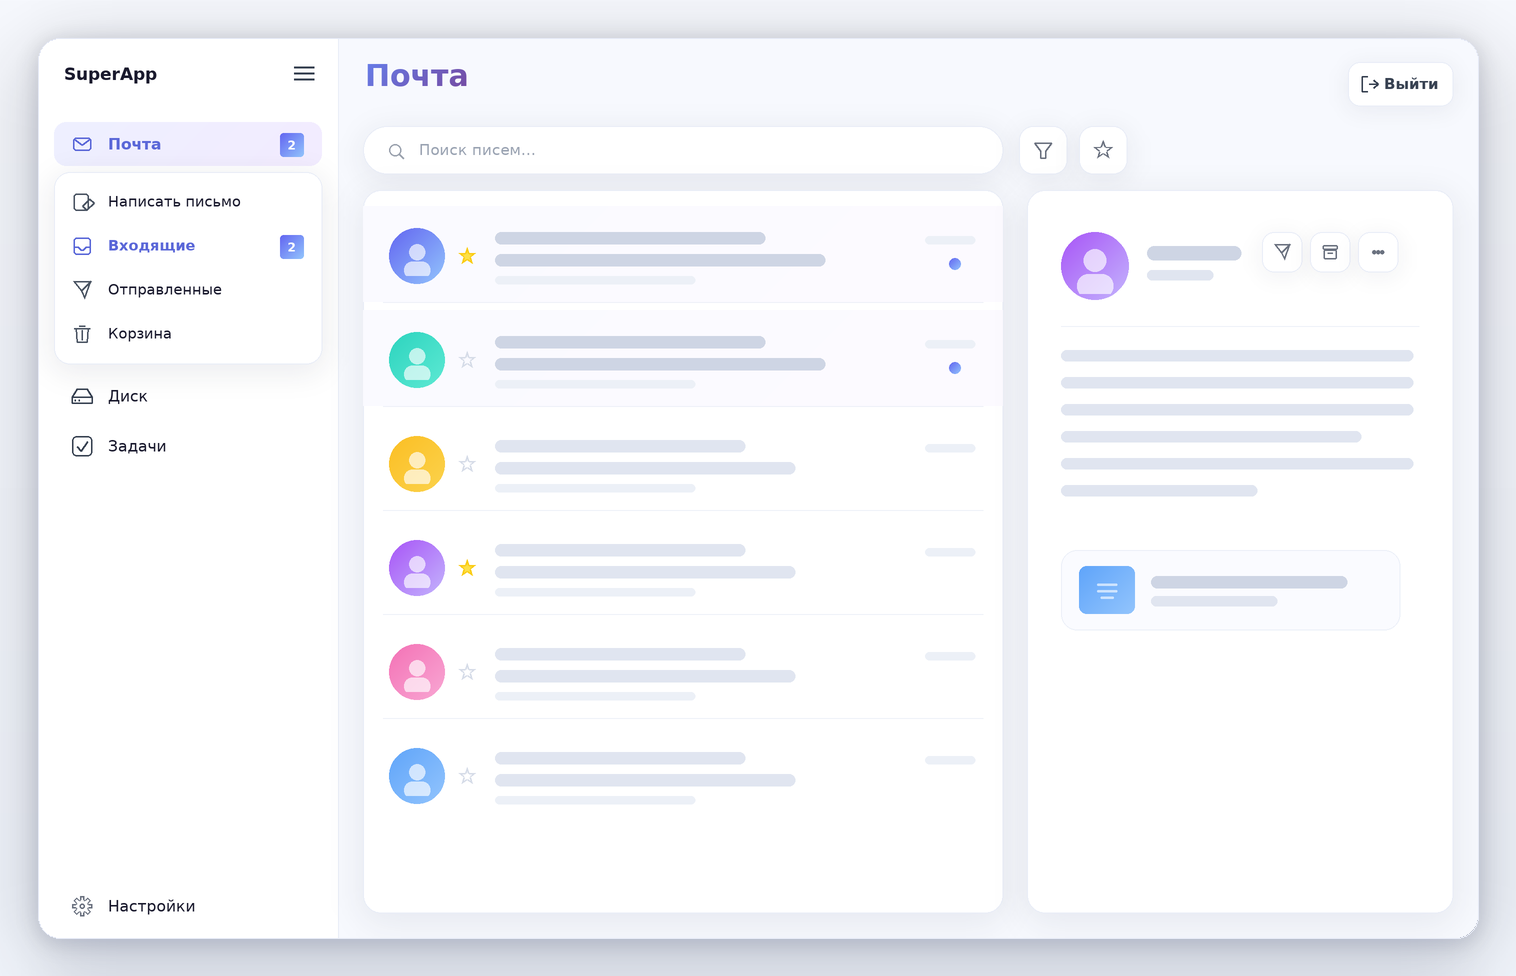
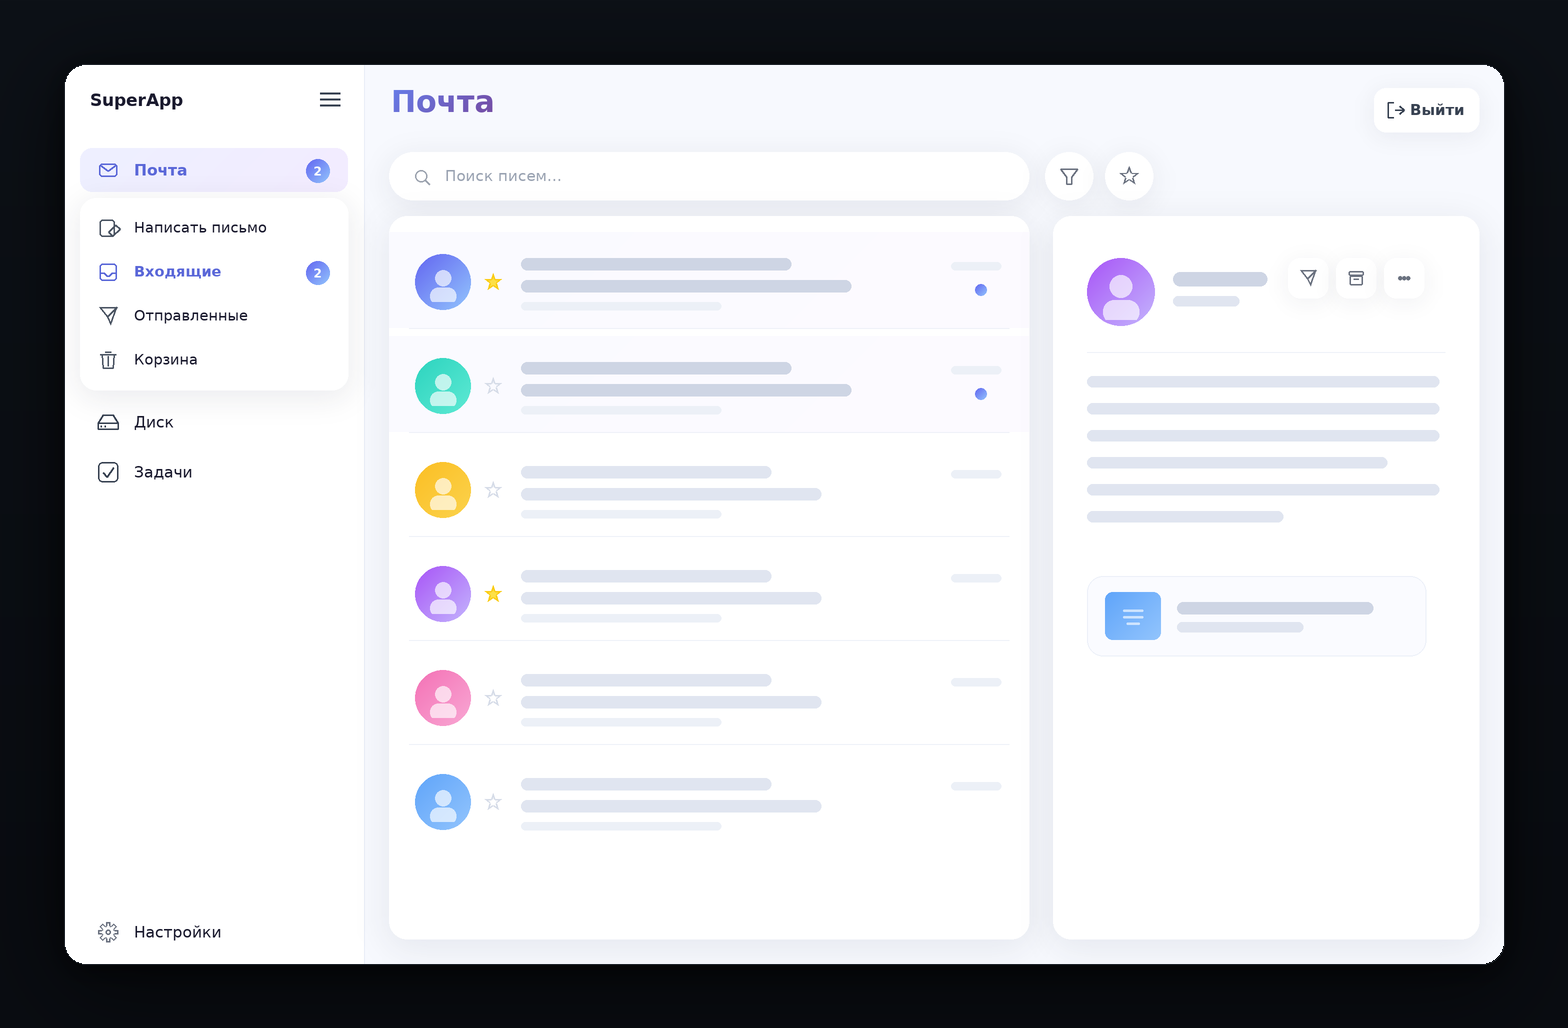
Screens: back to the old pastel look on a dark GitHub background
- Экран входа снова прежняя иллюстрация (raw-login.jpg), как была в README.
- Кадры лежат на фоне #0d1117 (тёмная тема GitHub) с широким полем вместо белого.
- Счётчики писем в сайдбаре стали круглыми; кнопки фильтра, избранного и
  переключателя вида — круглые, как в прежнем стиле.
- Диск: плитки квадратные — первый ряд папки, второй файлы; выбранная папка
  в мягкой синей обводке.
- Больше старого стиля: панели, колонки и карточки без обводок — только мягкая
  тень и крупные скругления; кнопки тулбара в задачах снова «иконка + подпись»
  без кнопочных плашек.

diff --git a/docs/images/make-screens.py b/docs/images/make-screens.py
@@ -112,8 +112,12 @@ def soft_shadow(img, box, r, blur=18, dy=10, color=(60, 70, 120, 60)):
     img.alpha_composite(layer.filter(ImageFilter.GaussianBlur(px(blur))))
 
 
-def card(img, box, r=18, fill=CARD, outline=BORDER, width=1, shadow=None):
-    """Карточка с мягкой тенью (shadow = (blur, dy, alpha))."""
+def card(img, box, r=18, fill=CARD, outline=None, width=1, shadow=None):
+    """Карточка с мягкой тенью (shadow = (blur, dy, alpha)).
+
+    По умолчанию рамки нет: в прежнем стиле панели «плавали» на фоне за счёт
+    одной тени, без обводки.
+    """
     if shadow:
         soft_shadow(img, box, r, blur=shadow[0], dy=shadow[1],
                     color=(70, 82, 140, shadow[2]))
@@ -319,8 +323,7 @@ def stat_chip(img, x, cy, label, icon=None):
     """Чип-плашка со статистикой («Колонок: 3», «Карточек: 7»)."""
     d = ImageDraw.Draw(img, 'RGBA')
     w = text_w(label, 13.5, True) + (38 if icon else 26)
-    card(img, [x, cy - 13, x + w, cy + 13], r=13, fill=(238, 241, 248),
-         outline=(238, 241, 248), shadow=False)
+    card(img, [x, cy - 13, x + w, cy + 13], r=13, fill=(238, 241, 248), shadow=False)
     if icon:
         icon(d, x + 17, cy, 15, (100, 116, 139))
         text(d, (x + 30, cy), label, 13.5, (100, 116, 139), bold=True, anchor='lm')
@@ -655,7 +658,7 @@ def draw_sidebar(img, active):
         icon(d, 44, y + 22, 20, PRIMARY_DARK if on else (55, 65, 81))
         text(d, (70, y + 13), label, 15.5, PRIMARY_DARK if on else TEXT, bold=on)
         if badge:
-            pastel_shape(img, [SIDEBAR - 58, y + 11, SIDEBAR - 34, y + 35], 'squircle',
+            pastel_shape(img, [SIDEBAR - 58, y + 11, SIDEBAR - 34, y + 35], 'disc',
                          PASTELS['indigo'], fold=False)
             text(d, (SIDEBAR - 46, y + 23), str(badge), 12, (255, 255, 255), bold=True, anchor='mm')
         y += 50
@@ -678,7 +681,7 @@ def draw_sidebar(img, active):
         icon(d, 44, yy + 20, 19, PRIMARY_DARK if on else (75, 85, 99))
         text(d, (70, yy + 11), label, 14.5, PRIMARY_DARK if on else TEXT, bold=on)
         if badge:
-            pastel_shape(img, [SIDEBAR - 58, yy + 9, SIDEBAR - 34, yy + 33], 'squircle',
+            pastel_shape(img, [SIDEBAR - 58, yy + 9, SIDEBAR - 34, yy + 33], 'disc',
                          PASTELS['indigo'], fold=False)
             text(d, (SIDEBAR - 46, yy + 21), str(badge), 12, (255, 255, 255), bold=True, anchor='mm')
         yy += 44
@@ -769,7 +772,7 @@ def draw_mail():
     ic_search(d, x0 + 32, 112, 19, (156, 163, 175))
     text(d, (x0 + 56, 112), 'Поиск писем...', 15, TEXT_SOFT, anchor='lm')
     for bx, ic in ((x0 + list_w + 16, ic_funnel), (x0 + list_w + 76, ic_star)):
-        card(img, [bx, 88, bx + 48, 136], r=14, shadow=(12, 5, 20))
+        card(img, [bx, 88, bx + 48, 136], r=24, shadow=(12, 5, 20))
         ic(d, bx + 24, 112, 20, (107, 114, 128))
 
     # список писем
@@ -854,29 +857,30 @@ def draw_drive():
     text(d, (x0 + 178, 186), '/', 16, (156, 163, 175), anchor='lm')
     sk_bar(img, [x0 + 196, 181, x0 + 300, 191], fill=SK)
 
-    # одна сетка на все плитки: 6 колонок, папки — двумя рядами, файлы — третьим
+    # квадратные плитки в одной сетке: 6 колонок, первый ряд — папки, второй — файлы
     gap, cols = 16, 6
     tw = ((W - 25) - x0 - gap * (cols - 1)) // cols
-    folders = ['indigo', 'teal', 'amber', 'rose', 'blue', 'violet',
-               'coral', 'indigo', 'teal', 'amber', 'rose', 'blue']
+    row1, row2 = 232, 232 + tw + gap
+    folders = ['indigo', 'teal', 'amber', 'rose', 'blue', 'violet']
     for i, key in enumerate(folders):
-        col, row = i % cols, i // cols
-        x, y = x0 + col * (tw + gap), 232 + row * 166
+        x = x0 + i * (tw + gap)
         selected = (i == 0)
-        card(img, [x, y, x + tw, y + 150], r=16, shadow=(14, 6, 22),
-             outline=(196, 205, 245) if selected else BORDER, width=1.6 if selected else 1)
-        pastel_shape(img, [x + 30, y + 36, x + tw - 30, y + 114], 'folder', PASTELS[key])
+        card(img, [x, row1, x + tw, row1 + tw], r=20, shadow=(16, 7, 24),
+             outline=(199, 208, 246) if selected else None, width=1.6 if selected else 1)
+        pastel_shape(img, [x + 34, row1 + 64, x + tw - 34, row1 + tw - 58], 'folder', PASTELS[key])
         if selected:
-            pastel_shape(img, [x + 12, y + 12, x + 36, y + 36], 'disc', PASTELS['indigo'], fold=False)
-            ic_check(d, x + 24, y + 24, 13, (255, 255, 255), w=2.0)
+            pastel_shape(img, [x + 14, row1 + 14, x + 40, row1 + 40], 'disc',
+                         PASTELS['indigo'], fold=False)
+            ic_check(d, x + 27, row1 + 27, 14, (255, 255, 255), w=2.0)
 
     files = [('rose', 'image'), ('teal', 'grid'), ('indigo', 'chart'),
              ('violet', 'lines'), ('coral', 'play'), ('blue', 'code')]
     for i, (key, glyph) in enumerate(files):
-        x, y = x0 + i * (tw + gap), 564
-        card(img, [x, y, x + tw, y + 150], r=16, shadow=(14, 6, 22))
-        pastel_shape(img, [x + tw / 2 - 30, y + 20, x + tw / 2 + 30, y + 100], 'doc', PASTELS[key])
-        pastel_glyph(img, x + tw / 2, y + 58, 17, glyph, alpha=170)
+        x = x0 + i * (tw + gap)
+        card(img, [x, row2, x + tw, row2 + tw], r=20, shadow=(16, 7, 24))
+        pastel_shape(img, [x + tw / 2 - 32, row2 + 46, x + tw / 2 + 32, row2 + tw - 50],
+                     'doc', PASTELS[key])
+        pastel_glyph(img, x + tw / 2, row2 + tw / 2 - 2, 18, glyph, alpha=170)
 
     # панель выбранного
     px0, py0 = W - 325, H - 156
@@ -929,8 +933,8 @@ def task_card(img, box, chips, title_w, items, done=False, key='indigo', tint=No
 
     def draw(target, bx0, by0):
         b = [bx0, by0, bx0 + w, by0 + h]
-        card(target, b, r=14, fill=tint or CARD, outline=(236, 241, 250),
-             shadow=None if tilt is not None else (12, 5, 18))
+        card(target, b, r=16, fill=tint or CARD,
+             shadow=None if tilt is not None else (14, 6, 22))
         d = ImageDraw.Draw(target, 'RGBA')
         cx, cy = bx0 + 14, by0 + 29
         if done:
@@ -990,10 +994,17 @@ def draw_tasks():
     card(img, [x0, 88, x0 + 250, 136], r=14, shadow=(12, 5, 18))
     ic_search(d, x0 + 28, 112, 18, (156, 163, 175))
     text(d, (x0 + 48, 112), 'Поиск карточек', 14.5, TEXT_SOFT, anchor='lm')
-    pill(img, [x0 + 266, 88, x0 + 470, 136], 'Все ответственные', icon=ic_funnel, size=14.5)
-    ic_chevron(d, x0 + 448, 112, 14, (107, 114, 128))
-    pill(img, [x0 + 486, 88, x0 + 630, 136], 'Обновить', icon=ic_refresh, size=14.5)
-    pill(img, [x0 + 646, 88, x0 + 770, 136], 'Архив', icon=ic_archive, size=14.5)
+    gx = x0 + 276
+    for icon, label, wide in ((ic_funnel, 'Все ответственные', True),
+                              (ic_refresh, 'Обновить', False),
+                              (ic_archive, 'Архив', False)):
+        icon(d, gx, 112, 18, (124, 134, 154))
+        text(d, (gx + 19, 112), label, 14.5, (88, 98, 120), bold=True, anchor='lm')
+        gx += 19 + text_w(label, 14.5, True) + 12
+        if wide:
+            ic_chevron(d, gx + 7, 112, 14, (152, 162, 180))
+            gx += 28
+        gx += 26
 
     # статистика — чипами, как в клиенте
     sx = stat_chip(img, x0, 162, 'Колонок: 3', icon=ic_users)
@@ -1027,15 +1038,15 @@ def draw_tasks():
     cw = ((W - 25) - x0 - gap * 3) // 4
     for ci, (title, accent, cards) in enumerate(columns):
         x = x0 + ci * (cw + gap)
-        card(img, [x, col_top, x + cw, col_top + col_h], r=18, fill=(251, 251, 254),
-             outline=BORDER, shadow=(14, 6, 20))
+        card(img, [x, col_top, x + cw, col_top + col_h], r=22, fill=(251, 251, 254),
+             shadow=(18, 8, 26))
         # заголовок колонки: точка-акцент, название, счётчик, корзина
         pastel_shape(img, [x + 18, col_top + 16, x + 32, col_top + 30], 'disc',
                      PASTELS[accent], fold=False)
         text(d, (x + 40, col_top + 16), title, 15, (31, 41, 55), bold=True)
         tx = x + 40 + text_w(title, 15, True) + 8
-        card(img, [tx, col_top + 12, tx + 26, col_top + 40], r=8, fill=(238, 241, 248),
-             outline=(238, 241, 248), shadow=False)
+        card(img, [tx, col_top + 12, tx + 26, col_top + 40], r=10, fill=(238, 241, 248),
+             shadow=False)
         text(d, (tx + 13, col_top + 26), str(len(cards)), 13, (100, 116, 139), bold=True, anchor='mm')
         ic_trash(d, x + cw - 24, col_top + 26, 16, (176, 186, 202))
 
@@ -1056,7 +1067,7 @@ def draw_tasks():
 
     # панель «Новая колонка» — четвёртая колонка доски
     nx = x0 + 3 * (cw + gap)
-    card(img, [nx, col_top, nx + cw, col_top + 320], r=18, shadow=(16, 7, 24))
+    card(img, [nx, col_top, nx + cw, col_top + 320], r=22, shadow=(18, 8, 26))
     text(d, (nx + 18, col_top + 18), 'Новая колонка', 15.5, TEXT, bold=True)
     sk_bar(img, [nx + 18, col_top + 56, nx + cw - 18, col_top + 104], fill=(246, 248, 252), r=12)
     sk_bar(img, [nx + 34, col_top + 76, nx + 150, col_top + 86], fill=SK)
@@ -1071,69 +1082,13 @@ def draw_tasks():
 # --- кадр «Вход» --------------------------------------------------------------
 
 def draw_login():
-    img = Image.new('RGBA', (W * S, H * S), (255, 255, 255, 255))
-    # фон: глубокий градиент + мягкие световые пятна
-    gradient_fill(img, [0, 0, W, H], 0, (96, 108, 214), (140, 96, 200))
-    glow = Image.new('RGBA', img.size, (0, 0, 0, 0))
-    gd = ImageDraw.Draw(glow, 'RGBA')
-    gd.ellipse([px(-160), px(-300), px(700), px(470)], fill=(255, 255, 255, 46))
-    gd.ellipse([px(880), px(470), px(1720), px(1180)], fill=(255, 255, 255, 36))
-    gd.ellipse([px(150), px(720), px(620), px(1240)], fill=(255, 255, 255, 28))
-    img.alpha_composite(glow.filter(ImageFilter.GaussianBlur(px(110))))
-
-    d = ImageDraw.Draw(img, 'RGBA')
-    # кнопка закрытия окна — как в клиенте (только в Electron)
-    glass_box(img, [W - 52, 12, W - 12, 52], 10, (255, 255, 255, 46),
-              outline=(255, 255, 255, 96))
-    ic_cross(d, W - 32, 32, 15, (255, 255, 255, 220))
-
-    # «стеклянная» карточка входа
-    cw, ch = 470, 612
-    cx, cy = (W - cw) / 2, (H - ch) / 2
-    glass_box(img, [cx, cy, cx + cw, cy + ch], 26, (255, 255, 255, 176),
-              outline=(255, 255, 255, 120))
-    pastel_shape(img, [W / 2 - 37, cy + 34, W / 2 + 37, cy + 108], 'disc', PASTELS['indigo'], fold=False)
-    person_glyph(img, W / 2, cy + 71, 30, alpha=210)
-    gradient_text(img, (W / 2, cy + 124), 'SuperApp', 32, PRIMARY, VIOLET, anchor='ma')
-
-    y = cy + 176
-    for label in ('Логин', 'Пароль'):
-        text(d, (cx + 40, y), label, 13.5, (86, 92, 130))
-        glass_box(img, [cx + 40, y + 22, cx + cw - 40, y + 72], 12,
-                  (255, 255, 255, 190), outline=(255, 255, 255, 140))
-        sk_bar(img, [cx + 58, y + 42, cx + 178, y + 52], fill=(214, 220, 236))
-        y += 96
-
-    # «Запомнить пароль»
-    gradient_fill(img, [cx + 40, y + 1, cx + 60, y + 21], 6, GRAD_A, GRAD_B)
-    ic_check(d, cx + 50, y + 11, 12, (255, 255, 255), w=2.2)
-    text(d, (cx + 70, y + 11), 'Запомнить пароль', 14, (86, 92, 130), anchor='lm')
-    y += 44
-
-    # PIN-код — в отдельном светлом контейнере
-    text(d, (cx + 40, y), 'PIN-код', 13.5, (86, 92, 130))
-    y += 20
-    glass_box(img, [cx + 40, y, cx + cw - 40, y + 100], 14,
-              (255, 255, 255, 120), outline=(255, 255, 255, 96))
-    bw, bgap = 54, 18
-    bx0 = cx + cw / 2 - (bw * 4 + bgap * 3) / 2
-    for i in range(4):
-        bx = bx0 + i * (bw + bgap)
-        glass_box(img, [bx, y + 24, bx + bw, y + 76], 12,
-                  (255, 255, 255, 205), outline=(255, 255, 255, 150))
-        if i < 2:
-            pastel_shape(img, [bx + bw / 2 - 7, y + 50 - 7, bx + bw / 2 + 7, y + 50 + 7],
-                         'disc', PASTELS['indigo'], fold=False)
-    y += 124
-
-    gradient_fill(img, [cx + 40, y, cx + cw - 40, y + 50], 12, GRAD_A, GRAD_B)
-    text(d, (W / 2, y + 25), 'Войти', 16, (255, 255, 255), bold=True, anchor='mm')
-    return img
+    """Экран входа — прежняя иллюстрация (raw-login.jpg), как была в README."""
+    return Image.open(os.path.join(HERE, 'raw-login.jpg')).convert('RGBA')
 
 
 # --- оформление кадра (скругление + тень + фон) -------------------------------
 
-def present(screen, out_name, pad=38, radius=22):
+def present(screen, out_name, pad=64, radius=22):
     win = screen.resize((W, H), Image.LANCZOS)          # уменьшаем 2× → 1×
     # Полупрозрачные заливки внутри кадра нужно один раз «печь» на белом фоне,
     # иначе при обрезке по скруглению альфа теряется и, например, активный
@@ -1144,25 +1099,27 @@ def present(screen, out_name, pad=38, radius=22):
     ImageDraw.Draw(mask).rounded_rectangle([0, 0, W - 1, H - 1], radius=radius, fill=255)
 
     CW, CH = W + pad * 2, H + pad * 2
-    canvas = Image.new('RGBA', (CW, CH), (255, 255, 255, 255))
+    # фон — как фон GitHub в тёмной теме: #0d1117, с лёгким затемнением книзу
+    canvas = Image.new('RGBA', (CW, CH), (13, 17, 23, 255))
     bg = ImageDraw.Draw(canvas)
-    for y in range(CH):                                  # мягкий фон
+    for y in range(CH):
         k = y / (CH - 1)
-        bg.line([(0, y), (CW, y)], fill=(int(247 - 6 * k), int(249 - 4 * k), int(254 - 2 * k)))
+        bg.line([(0, y), (CW, y)], fill=(int(13 - 4 * k), int(17 - 5 * k), int(23 - 6 * k)))
 
     # Тени и рамку рисуем в пикселях кадра — helpers rounded()/soft_shadow()
     # умножают координаты на S и здесь, после уменьшения, не подходят.
     box = [pad, pad, pad + W, pad + H]
-    for blur, dy, alpha in ((34, 16, 70), (10, 4, 46)):
+    for blur, dy, alpha in ((40, 18, 170), (12, 5, 120)):
         layer = Image.new('RGBA', (CW, CH), (0, 0, 0, 0))
         ImageDraw.Draw(layer).rounded_rectangle(
             [box[0], box[1] + dy, box[2], box[3] + dy], radius=radius,
-            fill=(64, 76, 130, alpha))
+            fill=(0, 0, 0, alpha))
         canvas.alpha_composite(layer.filter(ImageFilter.GaussianBlur(blur)))
     canvas.paste(flat.convert('RGB'), (pad, pad), mask)
 
+    # тонкая рамка в цвет границ тёмной темы GitHub (#21262d)
     ImageDraw.Draw(canvas, 'RGBA').rounded_rectangle(
-        box, radius=radius, outline=(230, 234, 246), width=1)
+        box, radius=radius, outline=(33, 38, 45), width=1)
 
     canvas.convert('RGB').save(os.path.join(HERE, out_name), optimize=True)
     return os.path.join(HERE, out_name)
